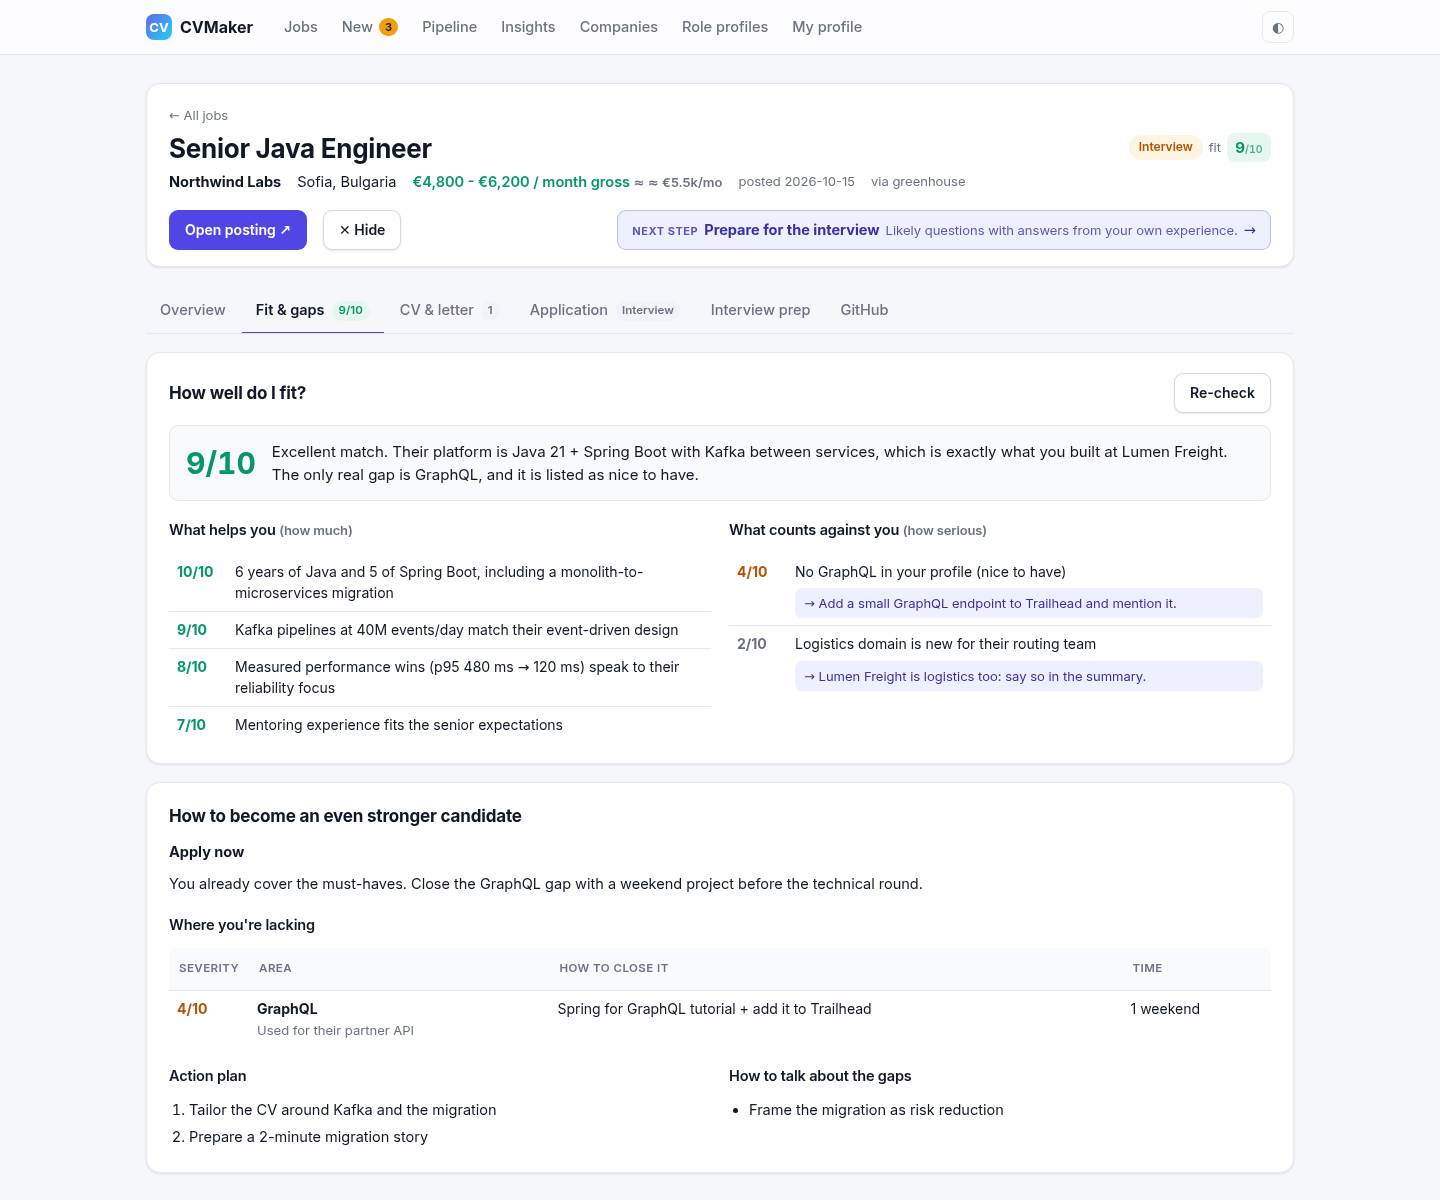
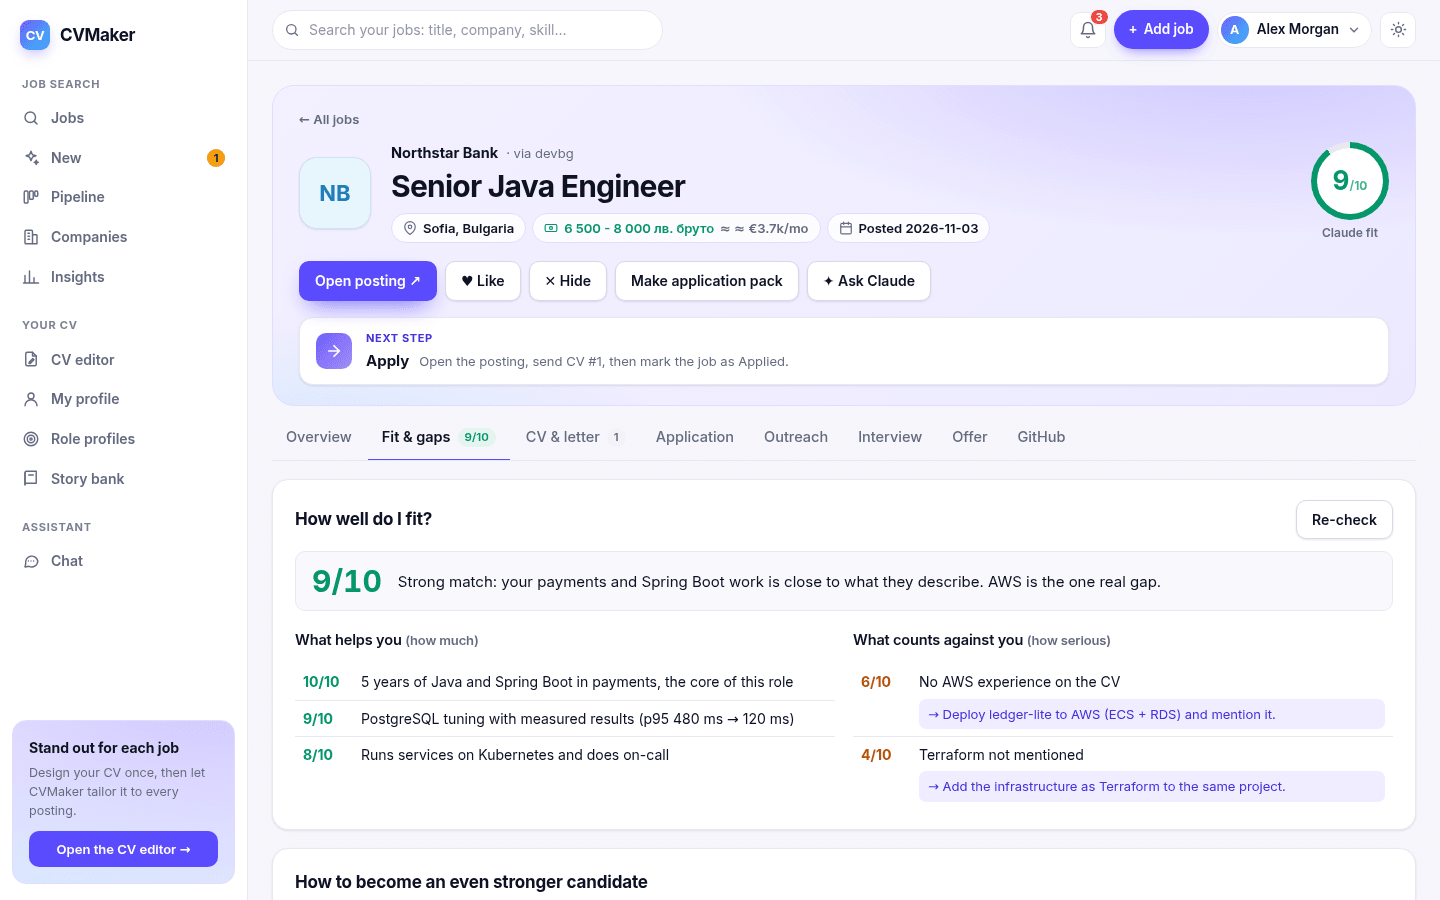
Updated README.

diff --git a/README.md b/README.md
@@ -6,29 +6,63 @@ Finds software developer jobs in the countries you choose, plus fully remote job
 
 The screenshots use a made-up demo profile ("Alex Morgan") and fictional companies.
 
-**Jobs**: dashboard strip, saved-search tabs, Claude fit and keyword scores, salary converted to € per month, and what your feedback taught ("↑ Sofia", "↓ junior roles").
+**Jobs**: the app shell (sidebar, quick search, notifications, person menu, light/dark toggle), the dashboard (new jobs, applications, response rate, follow-ups, median salary), company logos, Claude fit and keyword scores, salary converted to € per month, and what your feedback taught ("↑ Sofia").
 
 ![Jobs list](docs/screenshots/jobs.png)
 
-**Job page, Fit & gaps**: Claude's full fit check, with what helps you, what counts against you, and a plan to close the gaps.
+**Dark theme**: every page, the CV editor included, follows the system theme or the toggle in the top bar.
+
+![Jobs list, dark theme](docs/screenshots/jobs-dark.png)
+
+**Job page**: the posting with headings and bullets recovered, a **Next step** box, your progress, and tabs for fit, CV & letter, application, outreach, interview, offer and GitHub.
+
+![Job page](docs/screenshots/job.png)
+
+**Fit & gaps**: Claude's full fit check, with what helps you, what counts against you, and how to close each gap.
 
 ![Fit check on a job page](docs/screenshots/job-fit.png)
 
-**Tailored CV**: one-page preview, layout controls, the requirements you match and those your profile doesn't show.
+**Tailored CV**: one-page preview drawn by the CV editor, layout controls, the requirements you match and those your profile doesn't show.
 
 ![Tailored CV](docs/screenshots/cv.png)
 
-**Pipeline**: applications from To apply to Offer, Rejected or Ghosted, with response rates and follow-ups due.
+**CV editor**: click anything on the page and the toolbar changes it (font, size, colour, spacing, box size, ✦ Rewrite with Claude); templates, elements, text, uploads, layout, versions, layers and history on the left.
+
+![CV editor](docs/screenshots/editor.png)
+
+![CV editor, dark theme](docs/screenshots/editor-dark.png)
+
+**Pipeline**: applications from To apply to Offer, Rejected or Ghosted, with response rates (with and without a tailored CV) and follow-ups due.
 
 ![Application pipeline](docs/screenshots/pipeline.png)
 
-**Insights, Your gaps**: the gaps from all your fit checks grouped and ranked by how many jobs they affect.
+**Notifications**: new jobs, follow-ups due, closed postings and finished background tasks.
+
+![Notifications](docs/screenshots/notifications.png)
+
+**Insights, Your gaps**: the gaps from all your fit checks grouped and ranked by how many jobs they affect, plus the skills your jobs ask for that your profile never mentions.
 
 ![Insights: your gaps](docs/screenshots/insights-gaps.png)
 
 **Insights, Market**: most requested skills (and whether you have them), salaries by seniority and place, and postings per week.
 
 ![Insights: market](docs/screenshots/insights-market.png)
+
+**Chat**: ask Claude about your CV or a job; profile changes are shown line by line and only saved when you apply them.
+
+![Chat](docs/screenshots/chat.png)
+
+**Story bank**: STAR+R stories for interviews, drafted from your profile, with the details only you can add marked.
+
+![Story bank](docs/screenshots/stories.png)
+
+**Add a job by link or text**, then check your fit, tailor a CV or make a full application pack.
+
+![Add a job](docs/screenshots/add-job.png)
+
+**History & backup**: restore points before profile and editor changes, and a one-zip backup of everything.
+
+![History and backup](docs/screenshots/backup.png)
 
 ## Setup
 
